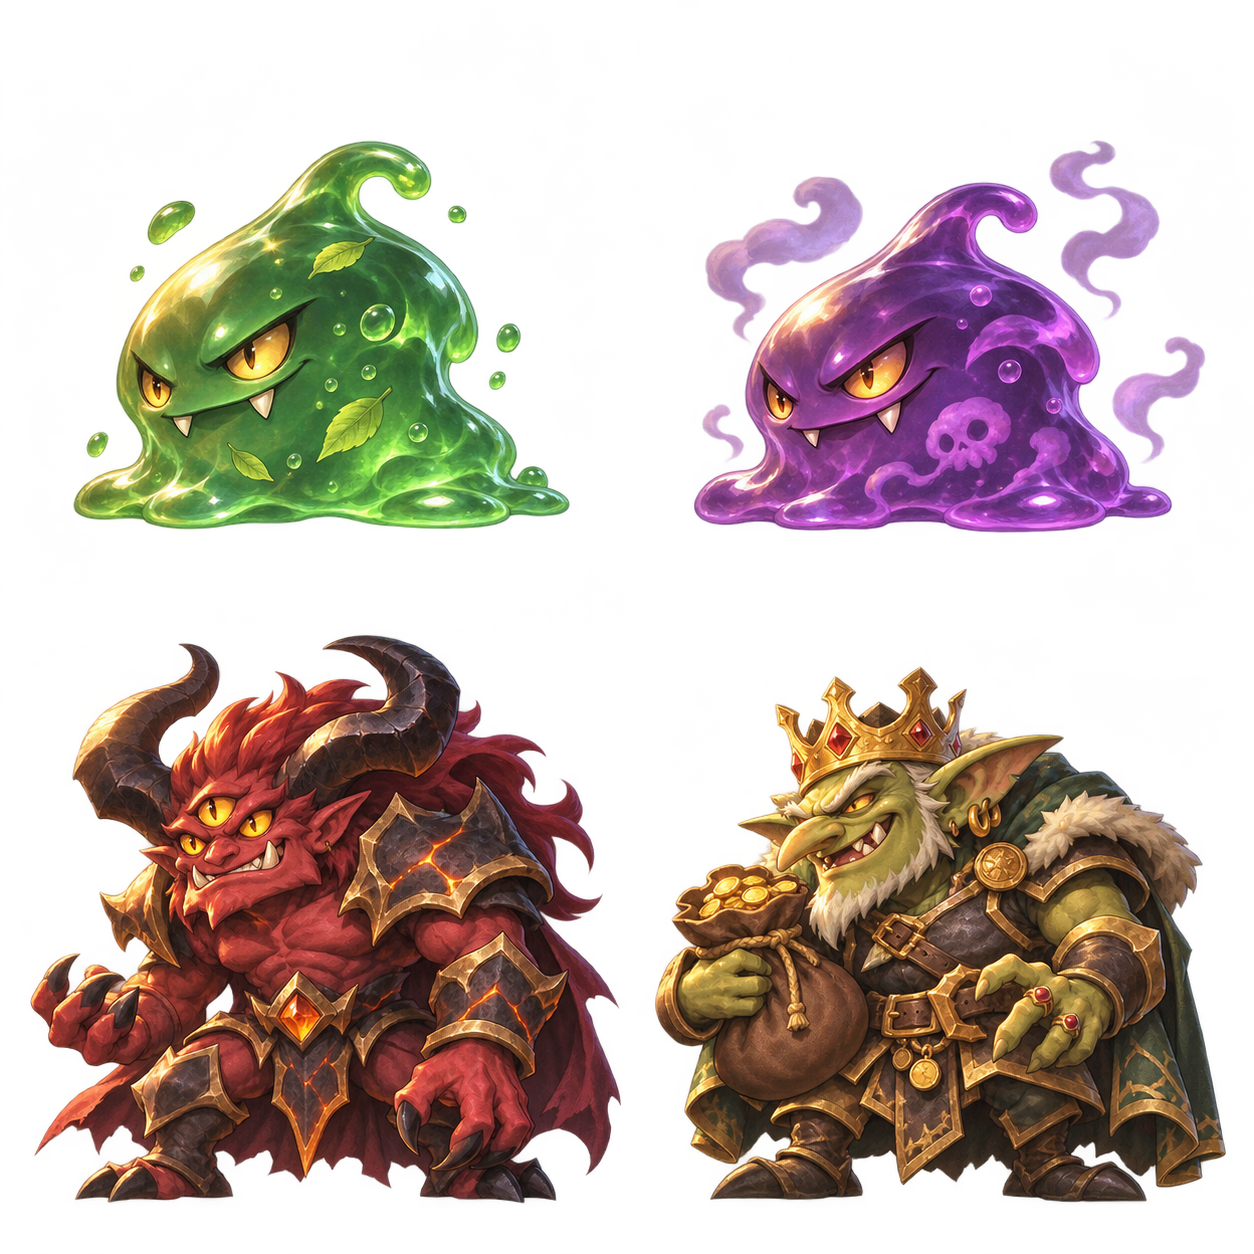
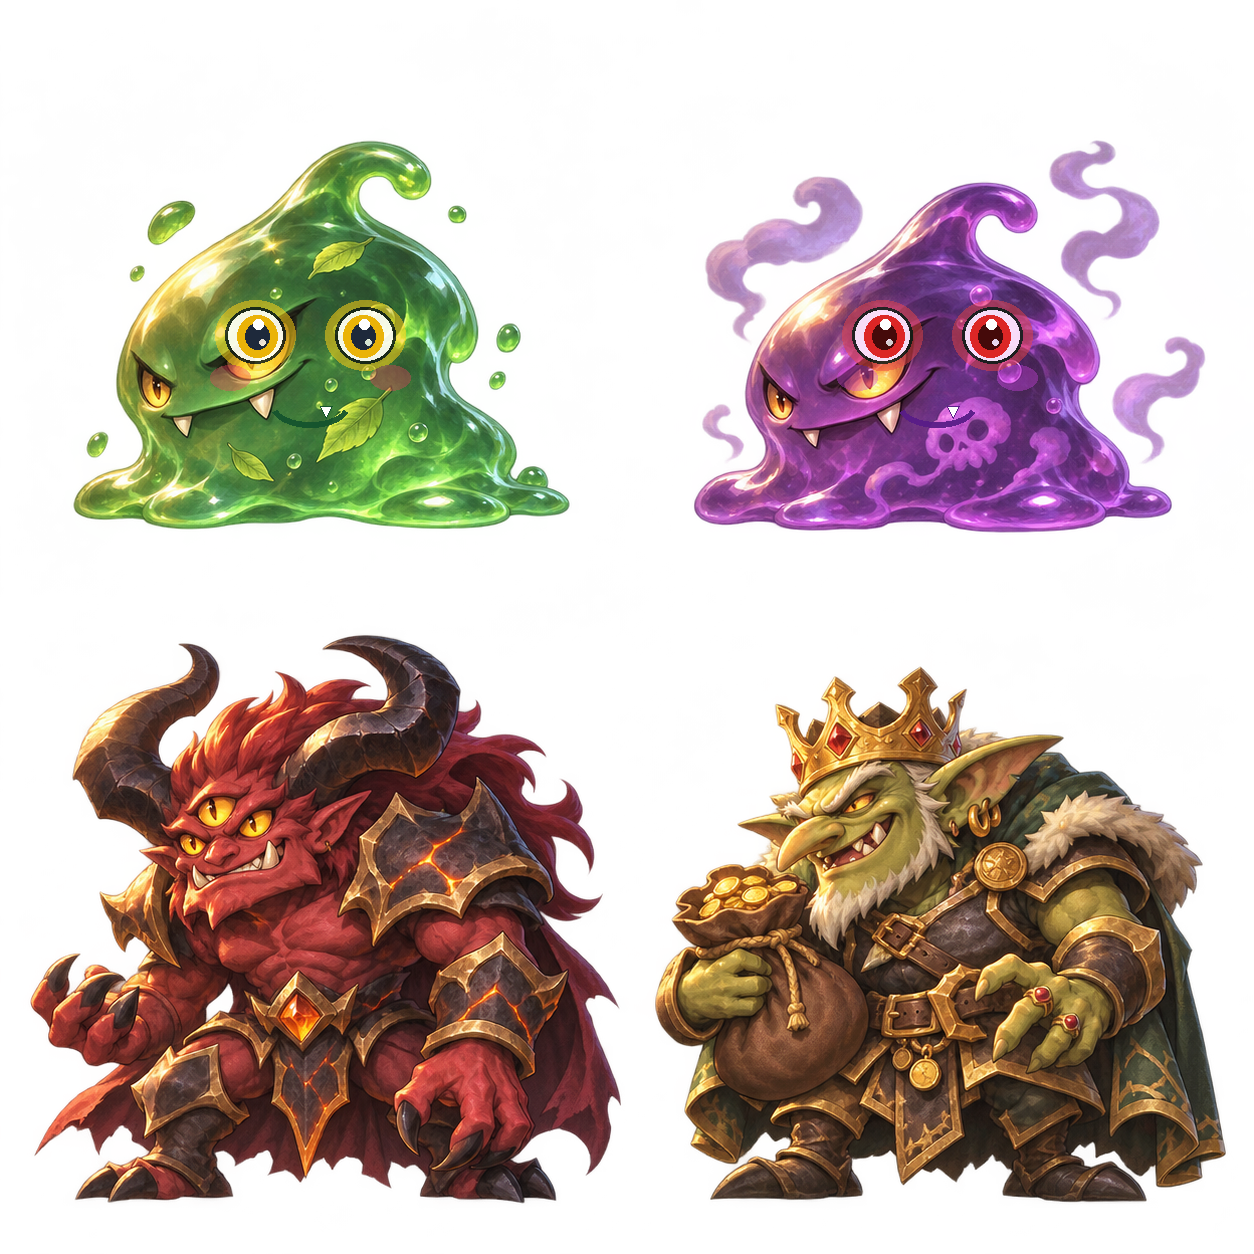
feat(rpg): upgrade slimes with expressive fantasy RPG monster features and remove raw emoji green ball fallback

Changed region(s): [[0.1555, 0.2177, 0.3421, 0.3421], [0.6531, 0.2177, 0.8397, 0.3421]]

diff --git a/rpg/index.html b/rpg/index.html
@@ -4,7 +4,7 @@
   <meta charset="UTF-8">
   <meta name="viewport" content="width=device-width, initial-scale=1.0, maximum-scale=1.0, user-scalable=no">
   <title>樂透大冒險：生物勇者傳奇 - RPG Bio-Quest</title>
-  <link rel="stylesheet" href="style.css?v=3.1">
+  <link rel="stylesheet" href="style.css?v=3.2">
 </head>
 <body>
 
@@ -136,7 +136,7 @@
         <!-- 右側：怪獸 / Boss 區域 -->
         <div class="enemy-character-box">
           <div class="enemy-avatar-wrapper">
-            <div class="enemy-avatar" id="enemyAvatar">🟢</div>
+            <div class="enemy-avatar" id="enemyAvatar"><div class="slime-blob green-blob" title="調皮綠史萊姆"></div></div>
           </div>
           <div class="enemy-info-card">
             <div class="enemy-name" id="enemyName">黏黏史萊姆 #1</div>
@@ -414,6 +414,6 @@
   </div>
 
   <script src="../score-submit-modal.js?v=5.0"></script>
-  <script src="game.js?v=4.6"></script>
+  <script src="game.js?v=4.7"></script>
 </body>
 </html>
